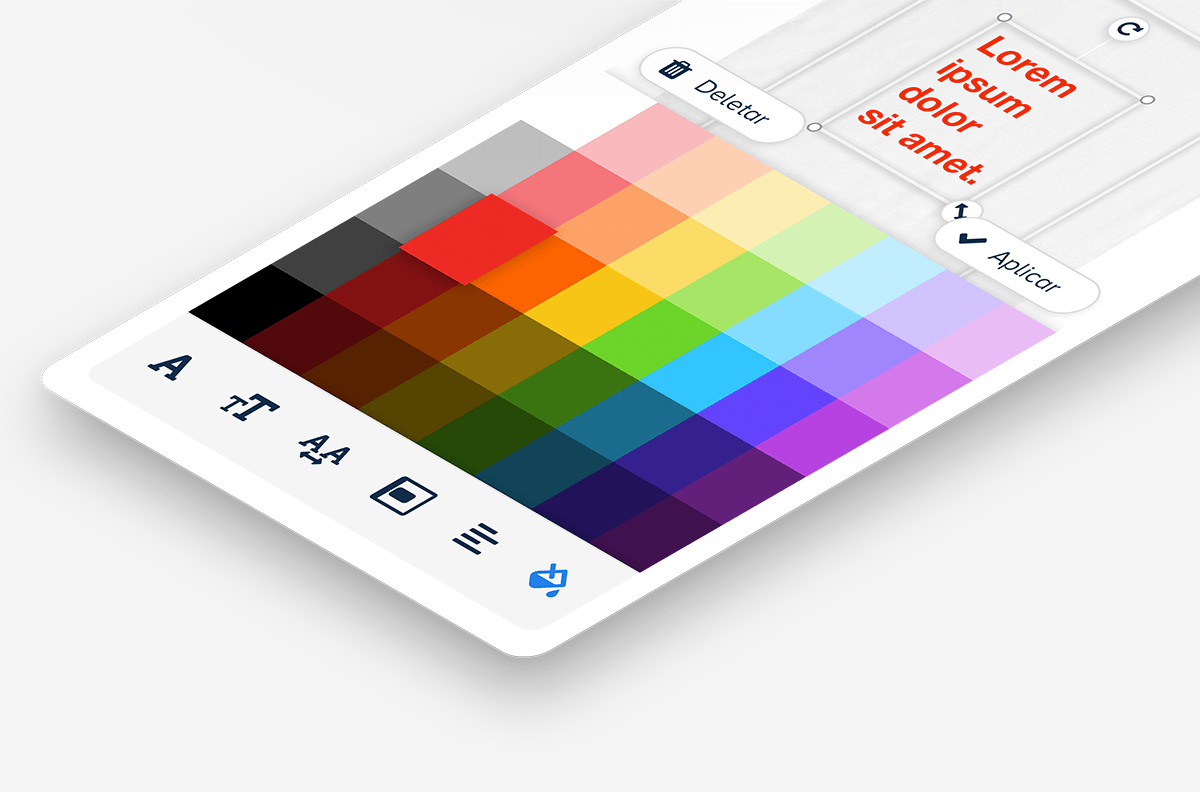
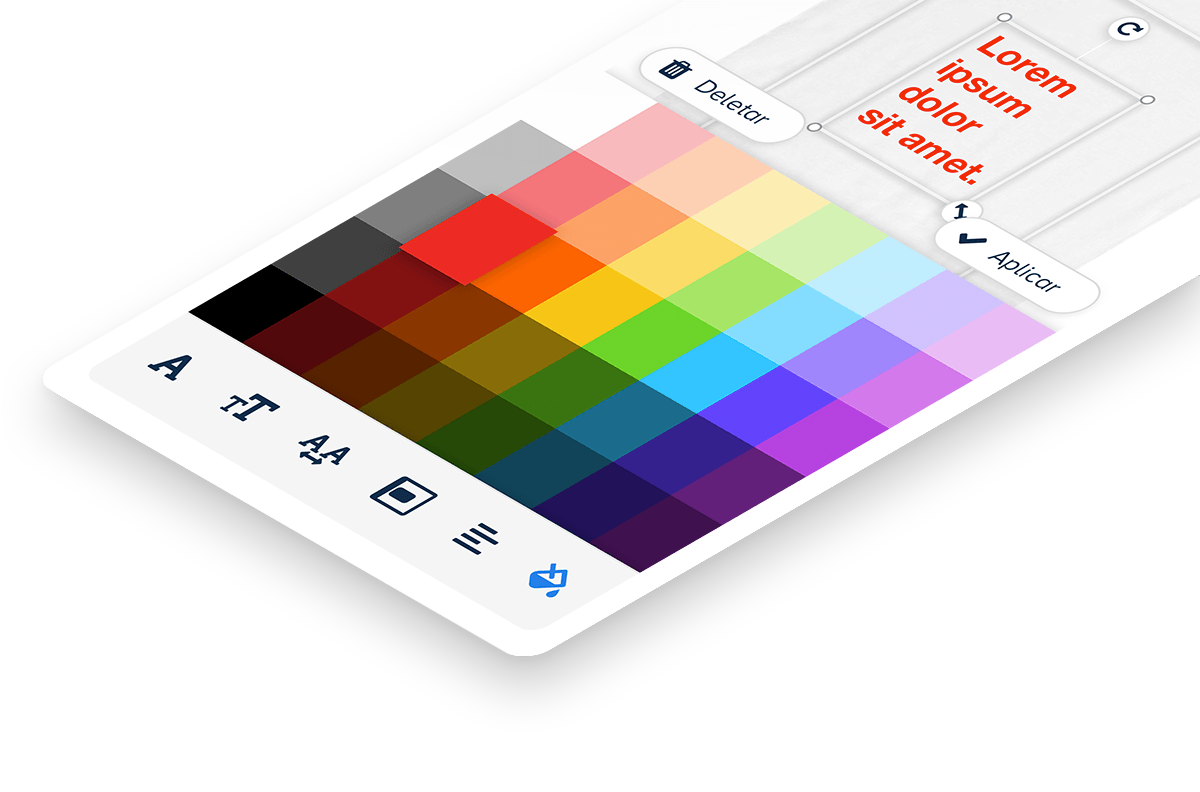
added dark mode

Changed region(s): [[0.0617, 0.3333, 1.0, 0.8788]]

diff --git a/assets/sass/setup/_variables.scss b/assets/sass/setup/_variables.scss
@@ -3,15 +3,14 @@
 :root { 
   --white:           #fafafa;
   --light-gray:      #f5f5f5;
-  --black:           #2e2e2e;
+  --dark-gray:       #222232;
+  --black:           #111111;
   --purple:          #620bad;
   --dark-blue:       #040011;
-  --medium-blue:     #009fa0;
   --secondary:       #ff0052;
-  --secondary-light: #ff5188;
-  --secondary-dark:  #d60045;
+  --secondary-dark:  #d60059;
 
-  --text-color:   var(--black);
+  --text-color:   var(--dark-gray);
   --body-color:   var(--white);
   --link-default: var(--secondary);
   --link-hover:   var(--secondary-dark);
@@ -20,8 +19,7 @@
   @media (prefers-color-scheme: dark) {
     --text-color:   var(--white);
     --body-color:   var(--dark-blue);
-    --link-hover:   var(--secondary-light);
-    --card-color:   var(--black);
+    --card-color:   var(--dark-gray);
   }
 }
 

diff --git a/assets/sass/components/_banners.scss b/assets/sass/components/_banners.scss
@@ -21,7 +21,7 @@
   background-repeat: no-repeat;
   background-position: right top;
   background-size: 100%;
-  background-color: #f5f5f5;
+  background-color: var(--light-gray);
   @media screen and (max-width: $medium) {
     padding: 65% 0 2rem;
     padding-top: 65%;
@@ -33,8 +33,15 @@
     background-size: 50%;
     .container div { flex-basis: 45%; }
   }
+  @media (prefers-color-scheme: dark) {
+    background-color: var(--black);
+  }
 }
 
 .gray-banner {
-  background: var(--light-gray);
+  background-color: var(--light-gray);
+  
+  @media (prefers-color-scheme: dark) {
+    background-color: var(--black);
+  }
 }

diff --git a/components/projects/ProjectHrg.vue b/components/projects/ProjectHrg.vue
@@ -2,7 +2,7 @@
   <section>
     <div class="container">
       <h2 class="font-huge">
-        <span class="font-featured">02.</span> Apparel Customisation Tool
+        <span class="font-featured font-featured--secondary">02.</span> Apparel Customisation Tool
       </h2>
       <project-tags ux_ui />
       <div class="row-60">
@@ -23,7 +23,7 @@
         </div>
       </div>
     </div>
-    <div class="full-width gray-banner">
+    <div class="full-width gray-banner mt-4">
       <div class="container">
         <img src="@/assets/img/hrg-toolbar.png">
       </div>

diff --git a/components/projects/ProjectRw.vue b/components/projects/ProjectRw.vue
@@ -2,7 +2,7 @@
   <section>
     <div class="container">
       <h2 class="font-huge">
-        <span class="font-featured">01.</span> Timeshare Site Redesign
+        <span class="font-featured font-featured--secondary">01.</span> Timeshare Site Redesign
       </h2>
       <project-tags ux_ui />
       <div class="row-60">

diff --git a/components/projects/PersonalSite.vue b/components/projects/PersonalSite.vue
@@ -2,7 +2,7 @@
   <section>
     <div class="container">
       <h2 class="font-huge">
-        <span class="font-featured">03.</span> This website
+        <span class="font-featured font-featured--secondary">03.</span> This website
       </h2>
       <project-tags ux_ui dev />
       <div class="row-60">

diff --git a/assets/sass/setup/_typography.scss b/assets/sass/setup/_typography.scss
@@ -145,6 +145,9 @@ a {
   @media (prefers-color-scheme: dark) and (min-width: $medium) {
     -webkit-text-stroke-width: 2px;
   }
+  &--secondary {
+    -webkit-text-stroke-color: var(--secondary);
+  }
 }
 
 .font-secondary {

diff --git a/assets/sass/components/_project-tags.scss b/assets/sass/components/_project-tags.scss
@@ -8,7 +8,7 @@
   span {
     display: inline-block;
     margin: .2rem;
-    border: 1px solid var(--black);
+    border: 1px solid var(--text-color);
     padding: .3rem .5rem;
   }
 }
